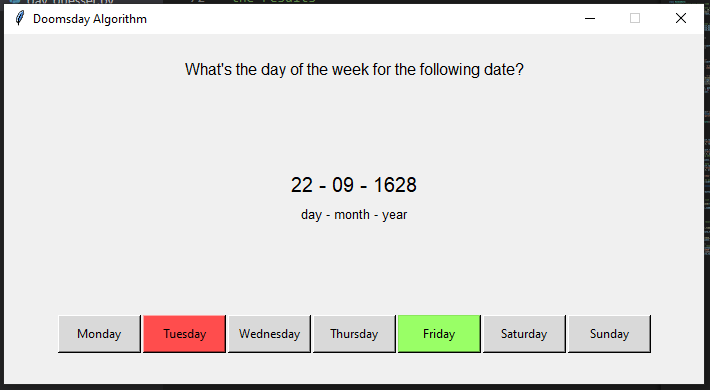
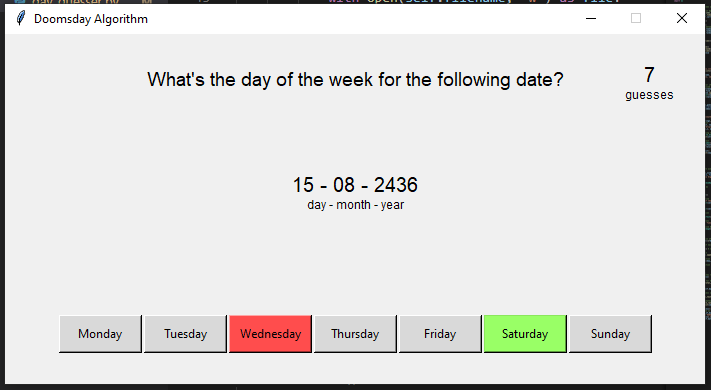
update image; small changes

diff --git a/day_guesser.py b/day_guesser.py
@@ -19,7 +19,7 @@ class RandomDate:
         #creates an random date between lowest_date and highest_date
         self.random_date = self.lowest_date+timedelta(days=random.randint(0, (self.highest_date-self.lowest_date).days))
         self.date_string = self.random_date.strftime("%d - %m - %Y")
-        self.day_of_week = self.random_date.weekday() #0=Monday, 1=Tuesday, ..., 6=Sunday 
+        self.day_of_week = self.random_date.isoweekday()%7 # 0=Sunday, 1=Monday, ... 
 
 class Timer():
     def __init__(self):
@@ -41,7 +41,7 @@ class ResultSaver():
         file_exists = os.path.exists(self.filename)
         if not file_exists:
             with open(self.filename, 'w') as file:
-                file.write('index, session, date, day_of_week, guess, time\n') #adding header
+                file.write('index, session, date_to_guess, day_of_week, guess, time\n') #adding header
 
         else:
             try:
@@ -50,14 +50,14 @@ class ResultSaver():
                 with open(self.filename, 'r') as file:
                     last_line = file.readlines()[-1]
                 values = last_line.split(sep=', ')
-                self.session = int(values[0])+1
-                self.index = int(values[1])+1
+                self.session = int(values[1])+1
+                self.index = int(values[0])+1
             except ValueError:
                 pass
 
-    def add_result(self, date, day_of_week, guess, time):
+    def add_result(self, date_to_guess, day_of_week, guess, time):
         with open(self.filename, 'a') as file:
-            file.write(f'{self.index}, {self.session}, {date}, {day_of_week}, {guess}, {time}\n')
+            file.write(f'{self.index}, {self.session}, {date_to_guess}, {day_of_week}, {guess}, {time}\n')
         self.index += 1
 
 class ShowText():
@@ -114,7 +114,7 @@ class DoomsdayAlgorithm():
         self.counter_text = ShowText(self.root, "guesses", self.guess_count, 15, 0.92, 40)
 
         # list for labeling buttons
-        days_of_week=['Monday', 'Tuesday', 'Wednesday', 'Thursday', 'Friday', 'Saturday', 'Sunday']
+        days_of_week=['Sunday', 'Monday', 'Tuesday', 'Wednesday', 'Thursday', 'Friday', 'Saturday']
 
         #fake imagae to enable size by pixel
         pixelVirtual = tk.PhotoImage(width=1, height=1)
